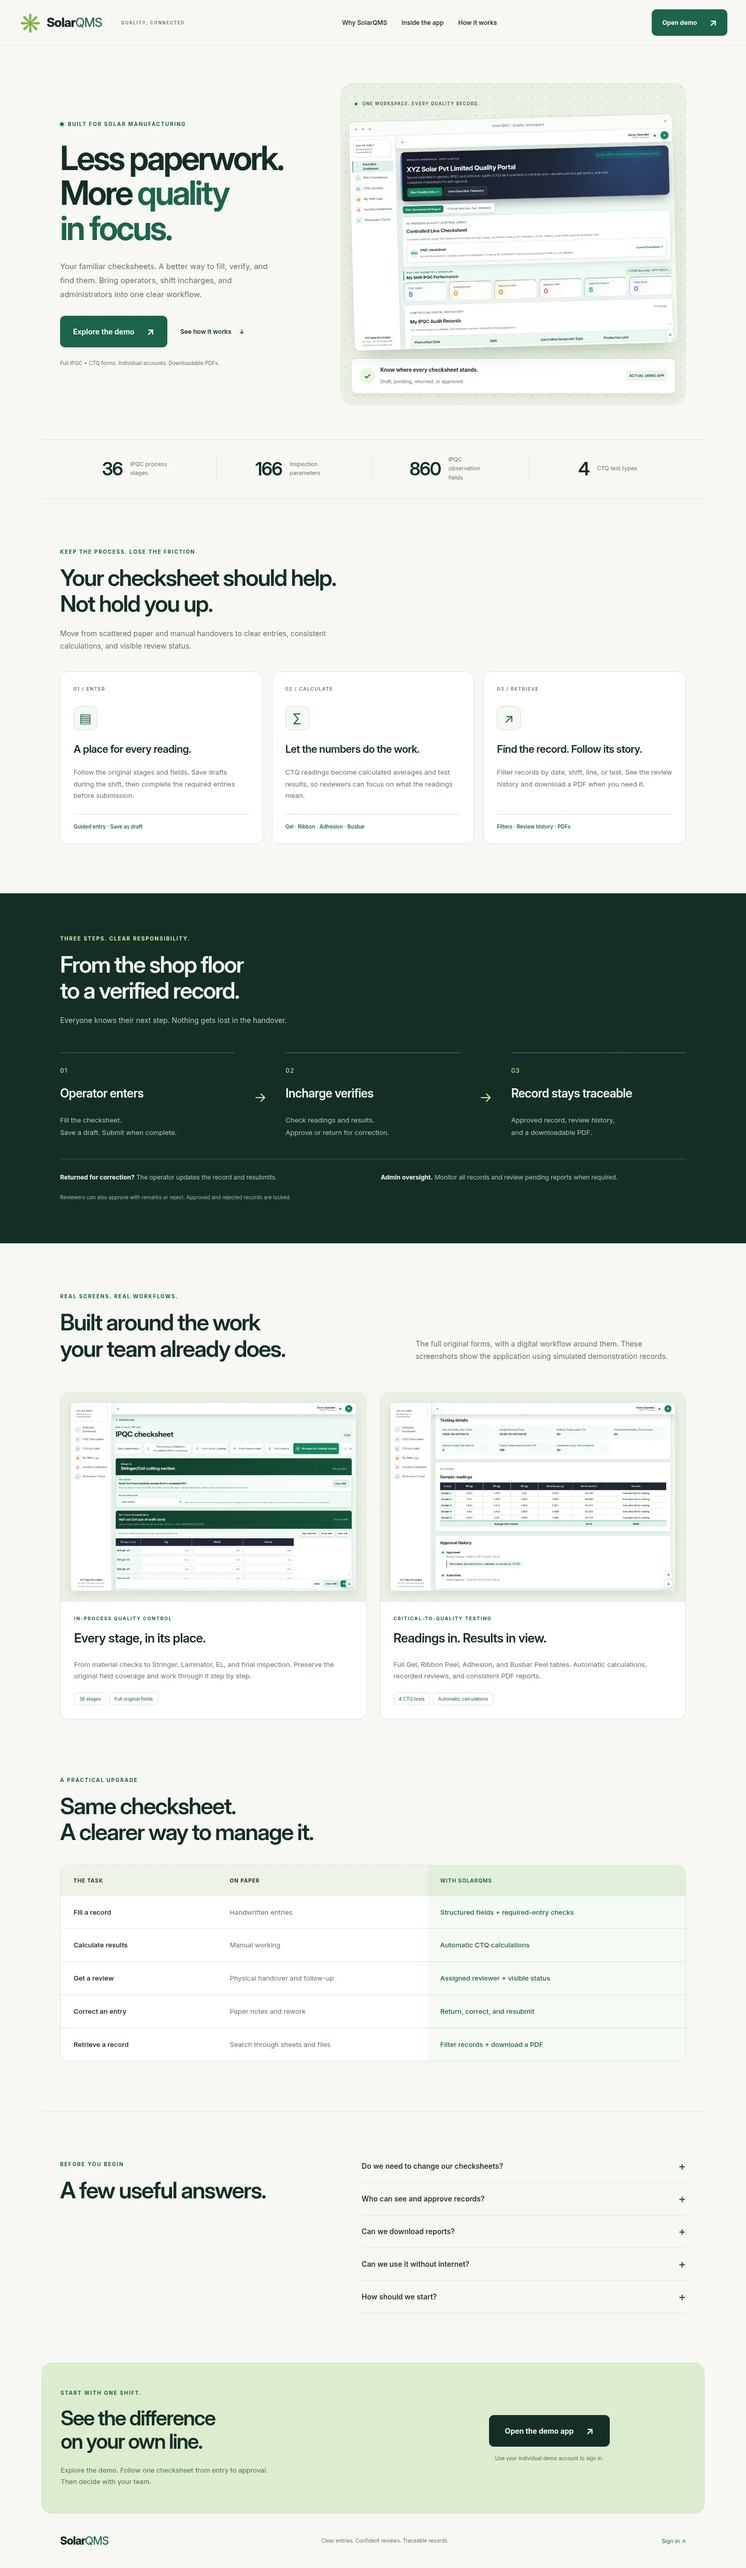
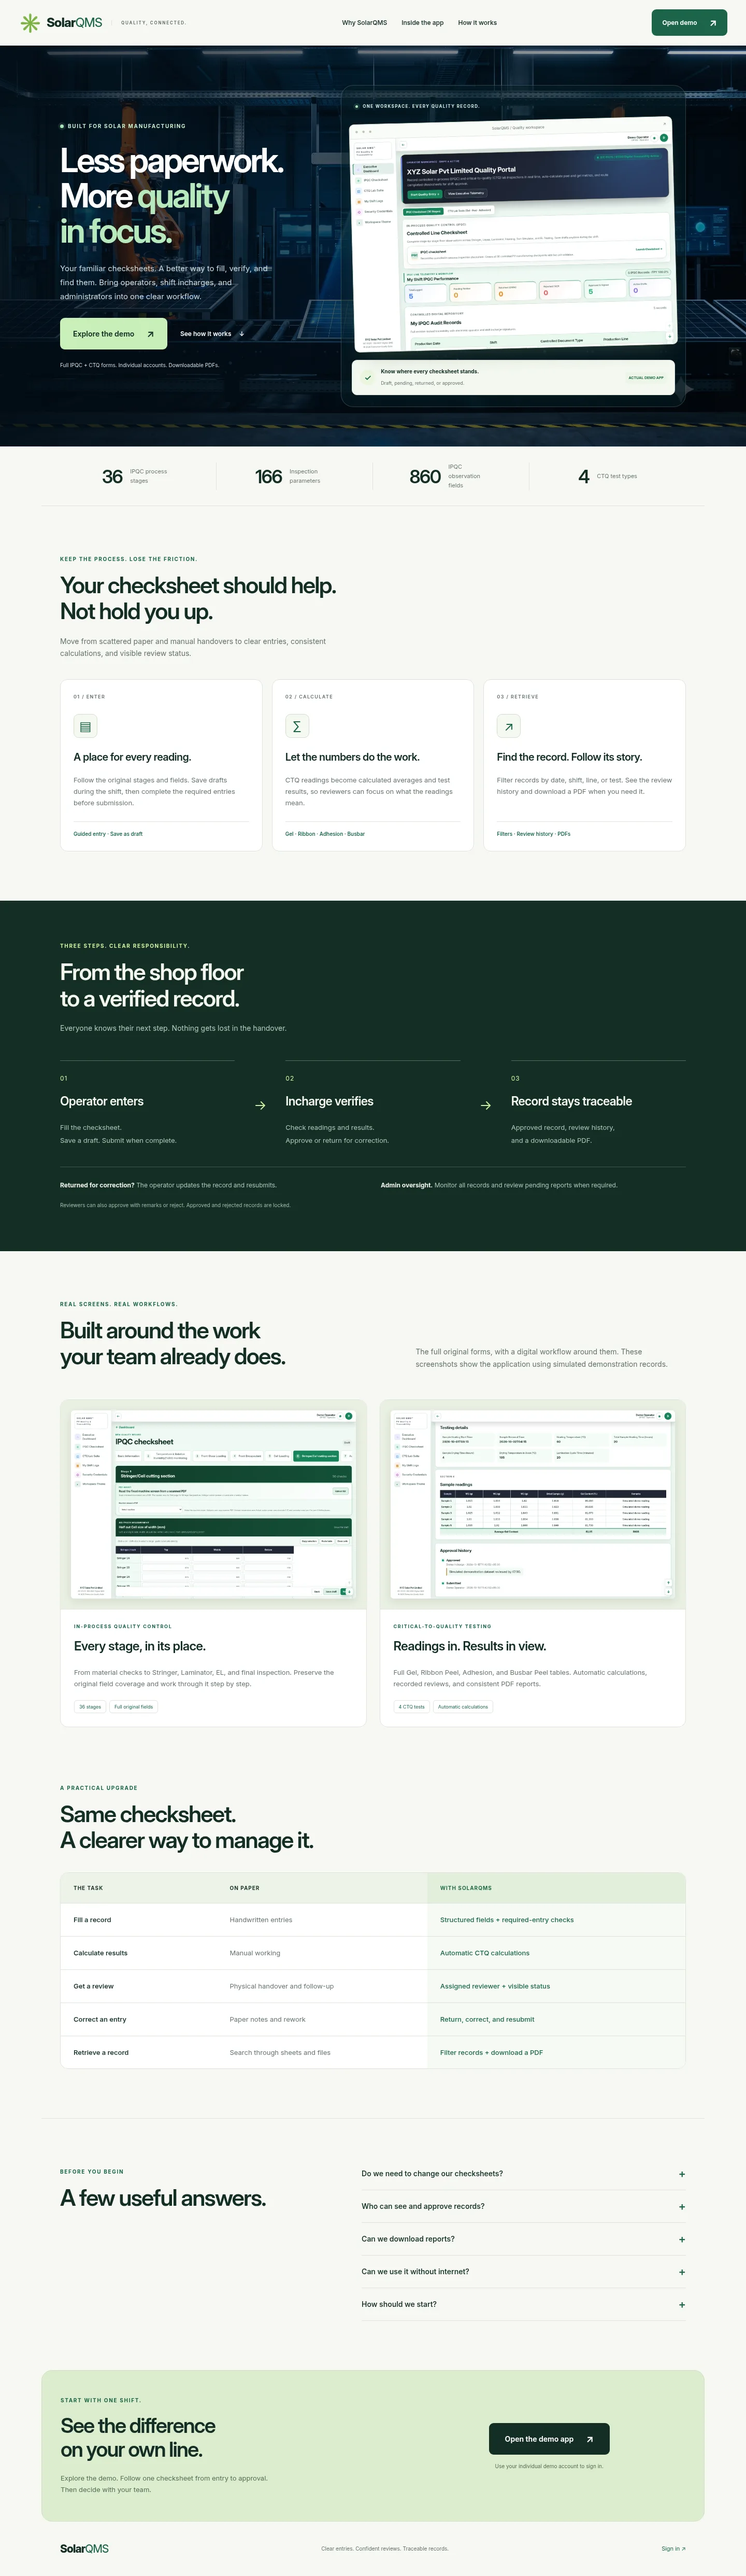
Use uploaded solar factory photograph as homepage hero background

diff --git a/static/landing.css b/static/landing.css
@@ -9,7 +9,7 @@
 @media(max-width:480px){.wordmark{font-size:21px}.brand-symbol{font-size:29px}.site-header{gap:12px;padding-inline:18px}.button-small{padding:10px 13px;gap:12px}.wrap{padding-inline:20px}.hero{padding-top:36px}.hero h1{font-size:48px;letter-spacing:-2.5px}.hero .eyebrow{font-size:8px;letter-spacing:1.1px}.intro{font-size:14px}.hero-actions{flex-wrap:wrap;gap:20px}.small-note{font-size:9px}.hero-product{padding:20px 12px}.product-label{font-size:7px;letter-spacing:1px}.product-caption strong{font-size:9px}.product-caption div>span{font-size:8px}.facts strong{font-size:30px}.facts span{font-size:10px}.facts>div{padding-left:10px;gap:10px}h2{font-size:32px;letter-spacing:-1.2px}.benefit{padding:24px 20px;column-gap:15px}.benefit h3{font-size:19px}.section-heading>p:last-child{font-size:13px}.screenshot-link{padding:12px}.showcase-copy{padding:22px}.showcase-copy h3{font-size:22px}th,td{padding:16px;min-width:140px}thead th:last-child,tbody td:last-child{min-width:210px}.pilot{margin-inline:20px;padding:28px 22px}.pilot h2{font-size:32px}.pilot-action>span{font-size:9px}.button{gap:18px}}
 @media(prefers-reduced-motion:reduce){html{scroll-behavior:auto}*,*::before,*::after{transition:none!important;animation:none!important}}
 /* The exact supplied photograph is loaded when added as product/home-background.*. */
-.hero-scene{--factory-photo:none;background-color:#061522;background-image:linear-gradient(90deg,rgba(3,14,23,.94) 0%,rgba(3,14,23,.77) 43%,rgba(3,14,23,.4) 100%),var(--factory-photo);background-size:cover;background-position:center;position:relative;isolation:isolate}
+.hero-scene{--factory-photo:none;background-color:#061522;background-image:linear-gradient(90deg,rgba(3,14,23,.82) 0%,rgba(3,14,23,.62) 43%,rgba(3,14,23,.3) 100%),var(--factory-photo);background-size:cover;background-position:center;position:relative;isolation:isolate}
 .hero-scene.background-webp{--factory-photo:url('product/home-background.webp')}.hero-scene.background-png{--factory-photo:url('product/home-background.png')}.hero-scene.background-jpg{--factory-photo:url('product/home-background.jpg')}.hero-scene.background-jpeg{--factory-photo:url('product/home-background.jpeg')}
 .hero-scene .hero{min-height:690px;padding-block:76px}
 .hero-scene .hero h1{color:#fff}.hero-scene .hero h1 em{color:#b8e9be}.hero-scene .eyebrow{color:#c4eecb}.hero-scene .intro,.hero-scene .small-note{color:#d0dde0}.hero-scene .quiet-link{color:#fff}.hero-scene .quiet-link:hover{color:#b8e9be}.hero-scene .hero-actions .button{background:#c8eeb9;color:#153325}.hero-scene .hero-actions .button:hover{background:#ddf8d4}

diff --git a/templates/landing.html b/templates/landing.html
@@ -7,7 +7,7 @@
   <meta name="description" content="Replace paper quality checksheets with guided IPQC and CTQ entry, automatic calculations, assigned approvals and traceable PDF reports for solar manufacturing.">
   <title>SolarQMS · From checksheet to clear decision</title>
   <link rel="icon" href="{{ url_for('static', filename='xyz-solar-logo.svg') }}">
-  <link rel="stylesheet" href="{{ url_for('static', filename='landing.css', v='factory-background-1') }}">
+  <link rel="stylesheet" href="{{ url_for('static', filename='landing.css', v='factory-background-2') }}">
 </head>
 <body>
   <a class="skip" href="#main">Skip to content</a>

diff --git a/docs/landing-page.md b/docs/landing-page.md
@@ -12,4 +12,4 @@ This branch does not include the separate `green-pdf-theme` change. It has not b
 
 ## Supplied homepage photograph
 
-The requested robot/solar-panel image arrived inline in chat without a downloadable file reference. Its exact original bytes are still needed. Upload the image directly to `static/product/` on this branch, named `home-background.png`, `home-background.jpg`, `home-background.jpeg`, or `home-background.webp` (keep the original format). The landing page detects the file and applies it automatically behind the main hero with a dark readability overlay. It uses a dark fallback without requesting missing image files until the asset is added. The existing product screenshots remain in the hero and feature sections.
+The supplied robot/solar-panel photograph is installed at `static/product/home-background.webp`. It was taken from the user's uploaded `presentations/Gemini_Generated_Image_sl7dafsl7dafsl7d.png` and encoded as lossless WebP: dimensions and decoded RGB pixels are unchanged. The hero uses a dark overlay to keep white headings and buttons readable, with responsive positioning on mobile.
